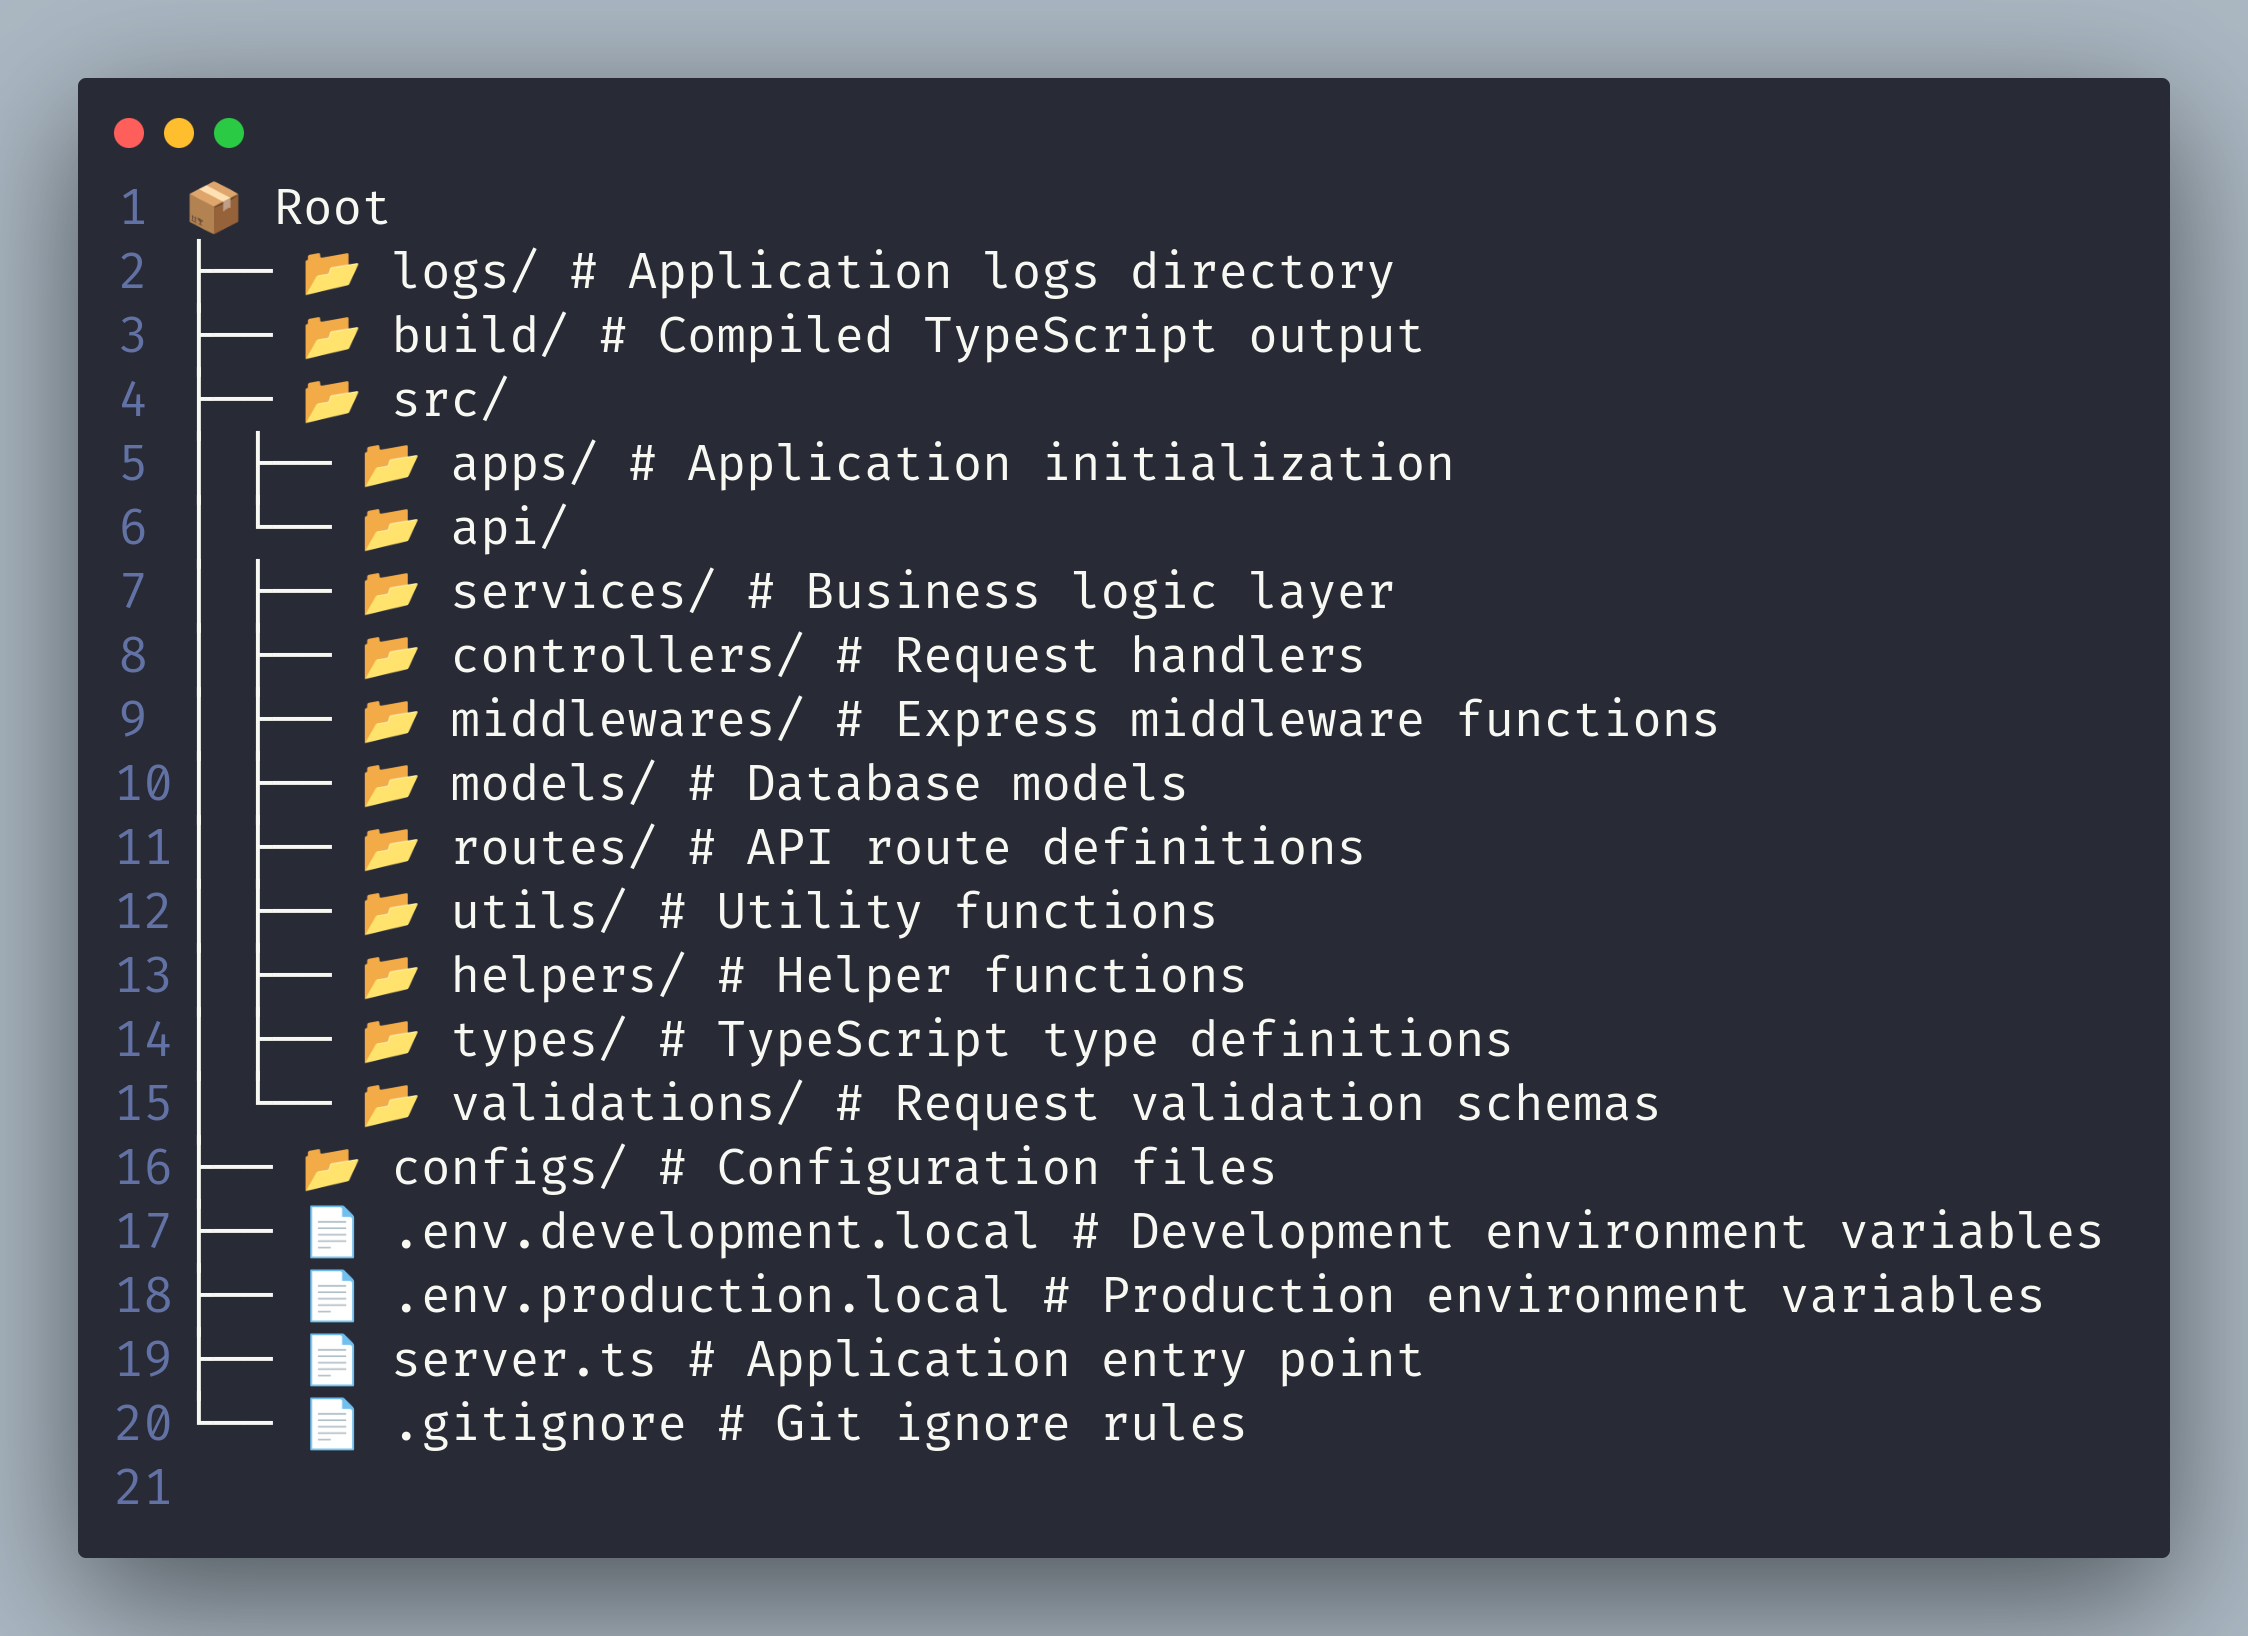
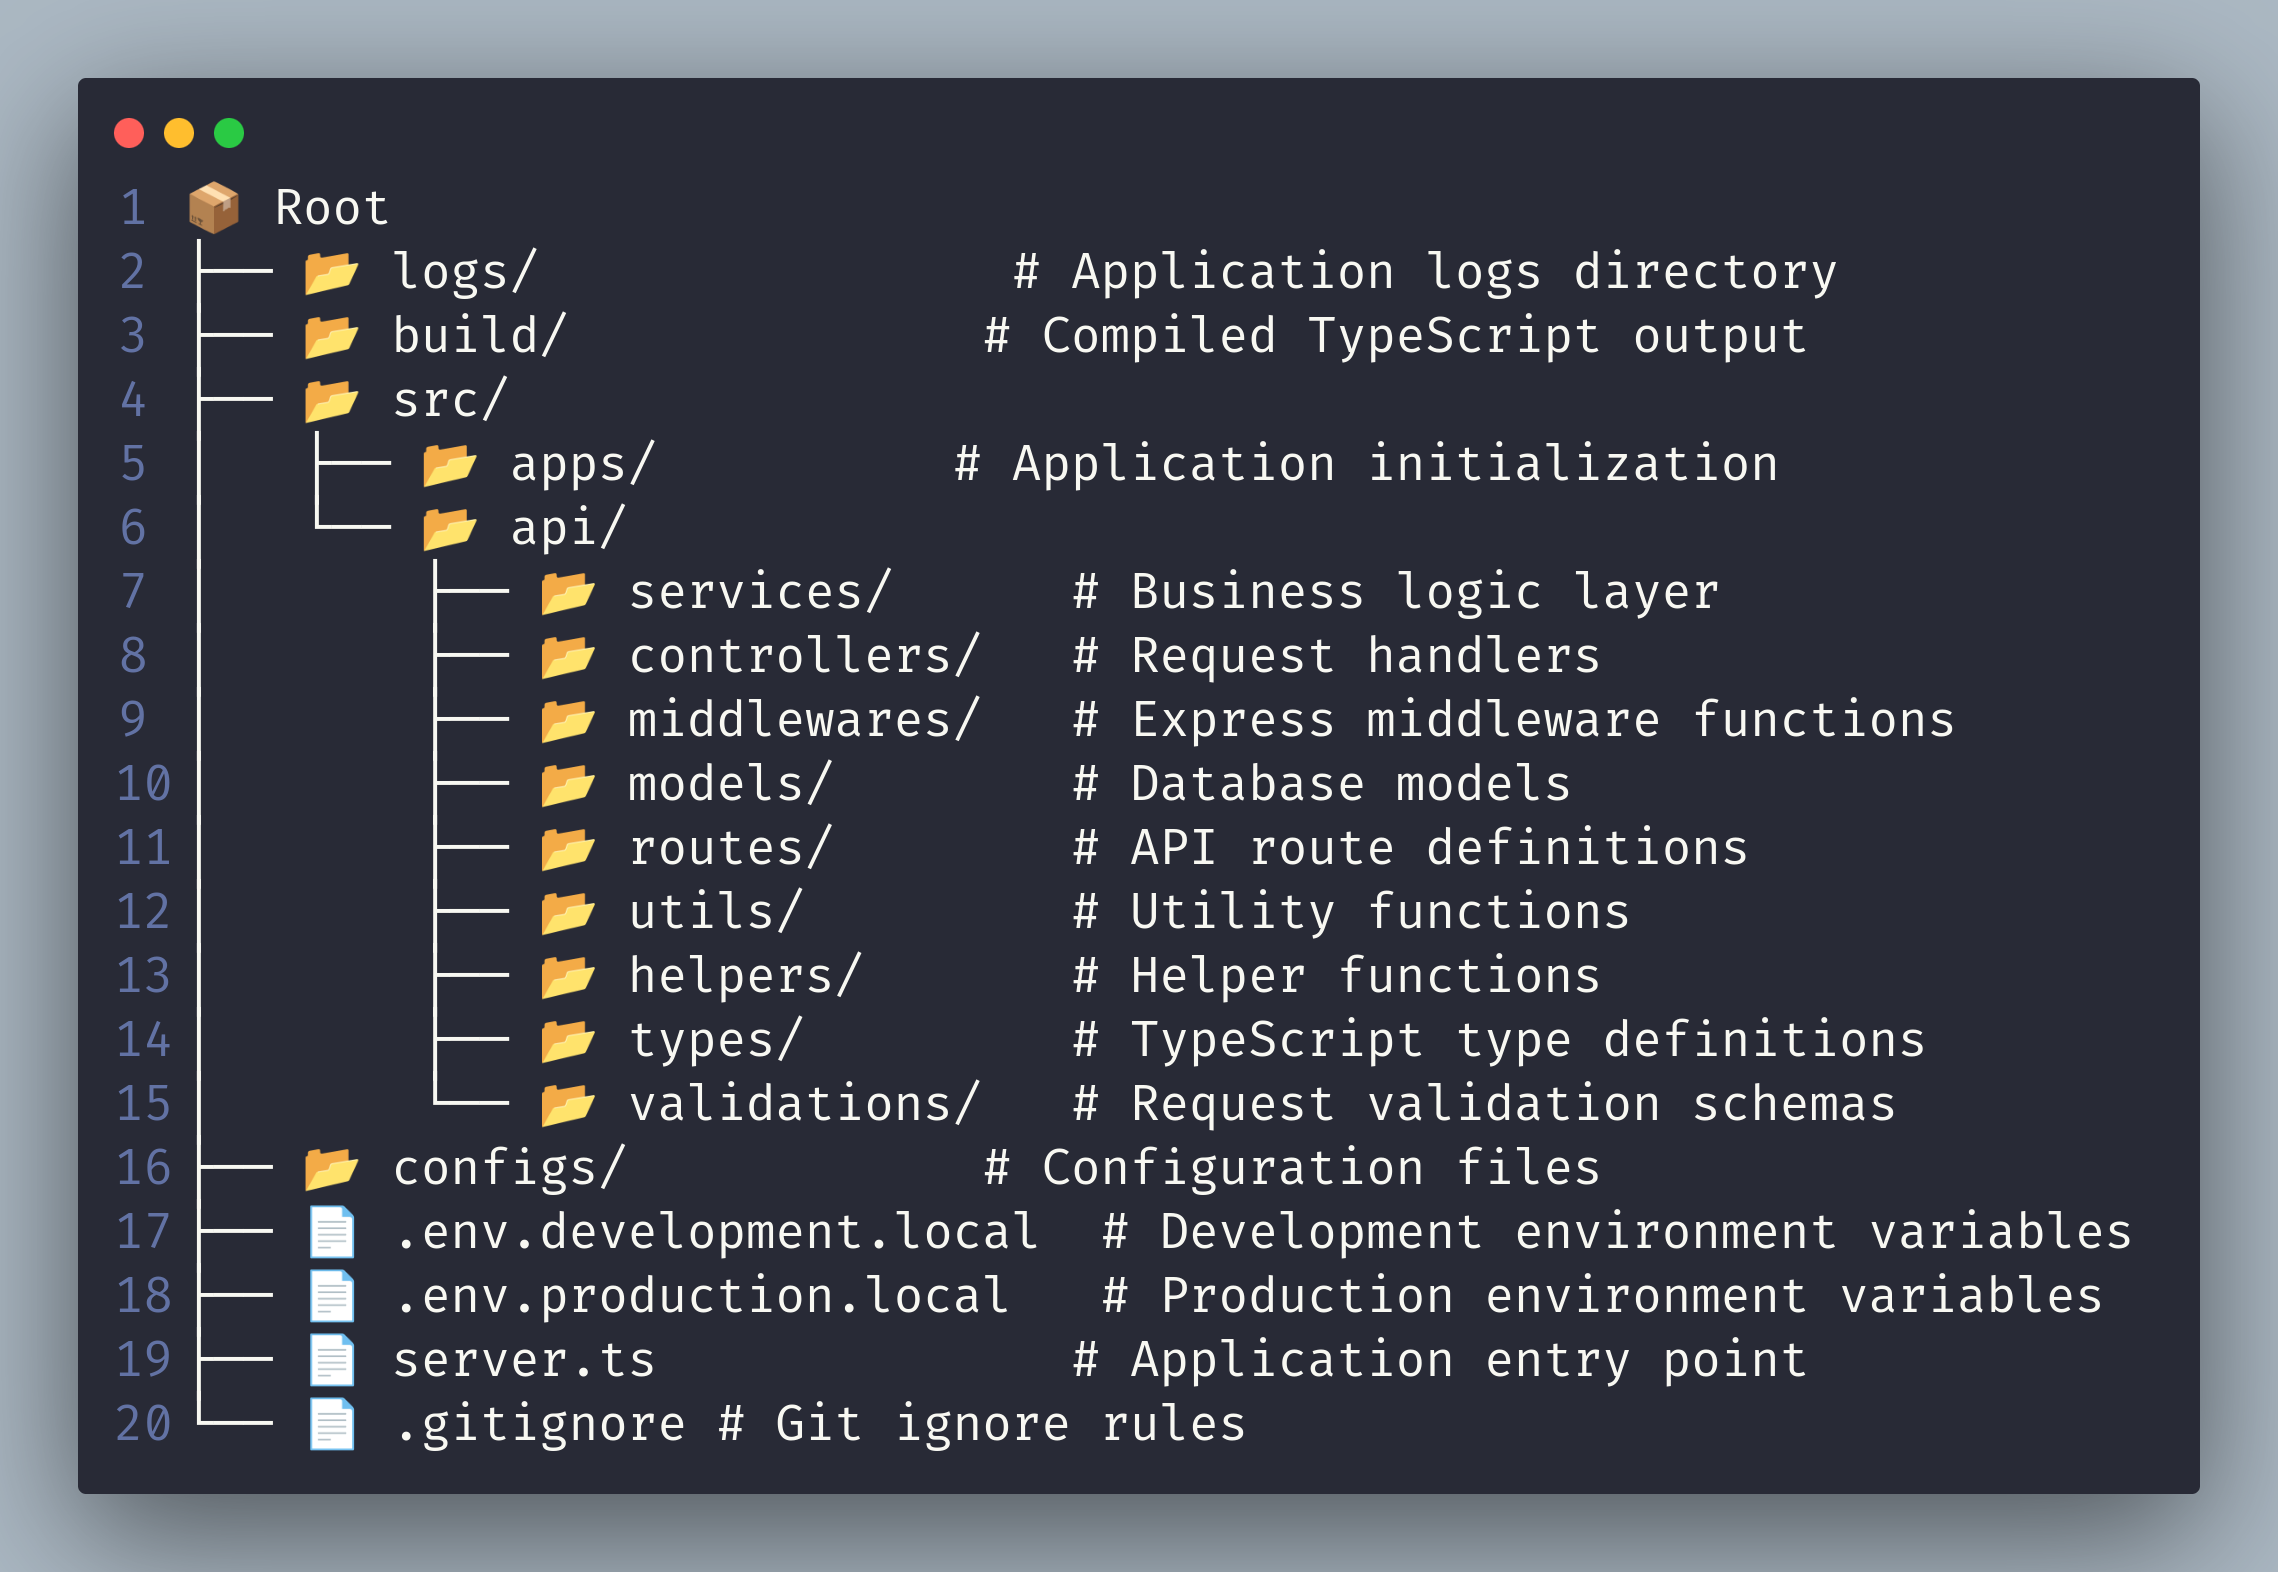
optimize: project structure style

Changed region(s): [[0.0311, 0.0623, 0.9342, 0.9351], [0.3737, 0.2805, 0.7785, 0.3117]]

diff --git a/readme.md b/readme.md
@@ -31,4 +31,4 @@
 
 ## 2. Cấu trúc dự án
 
-![screenshot](images/code.png)
+![project_structure](/images/code.png)
